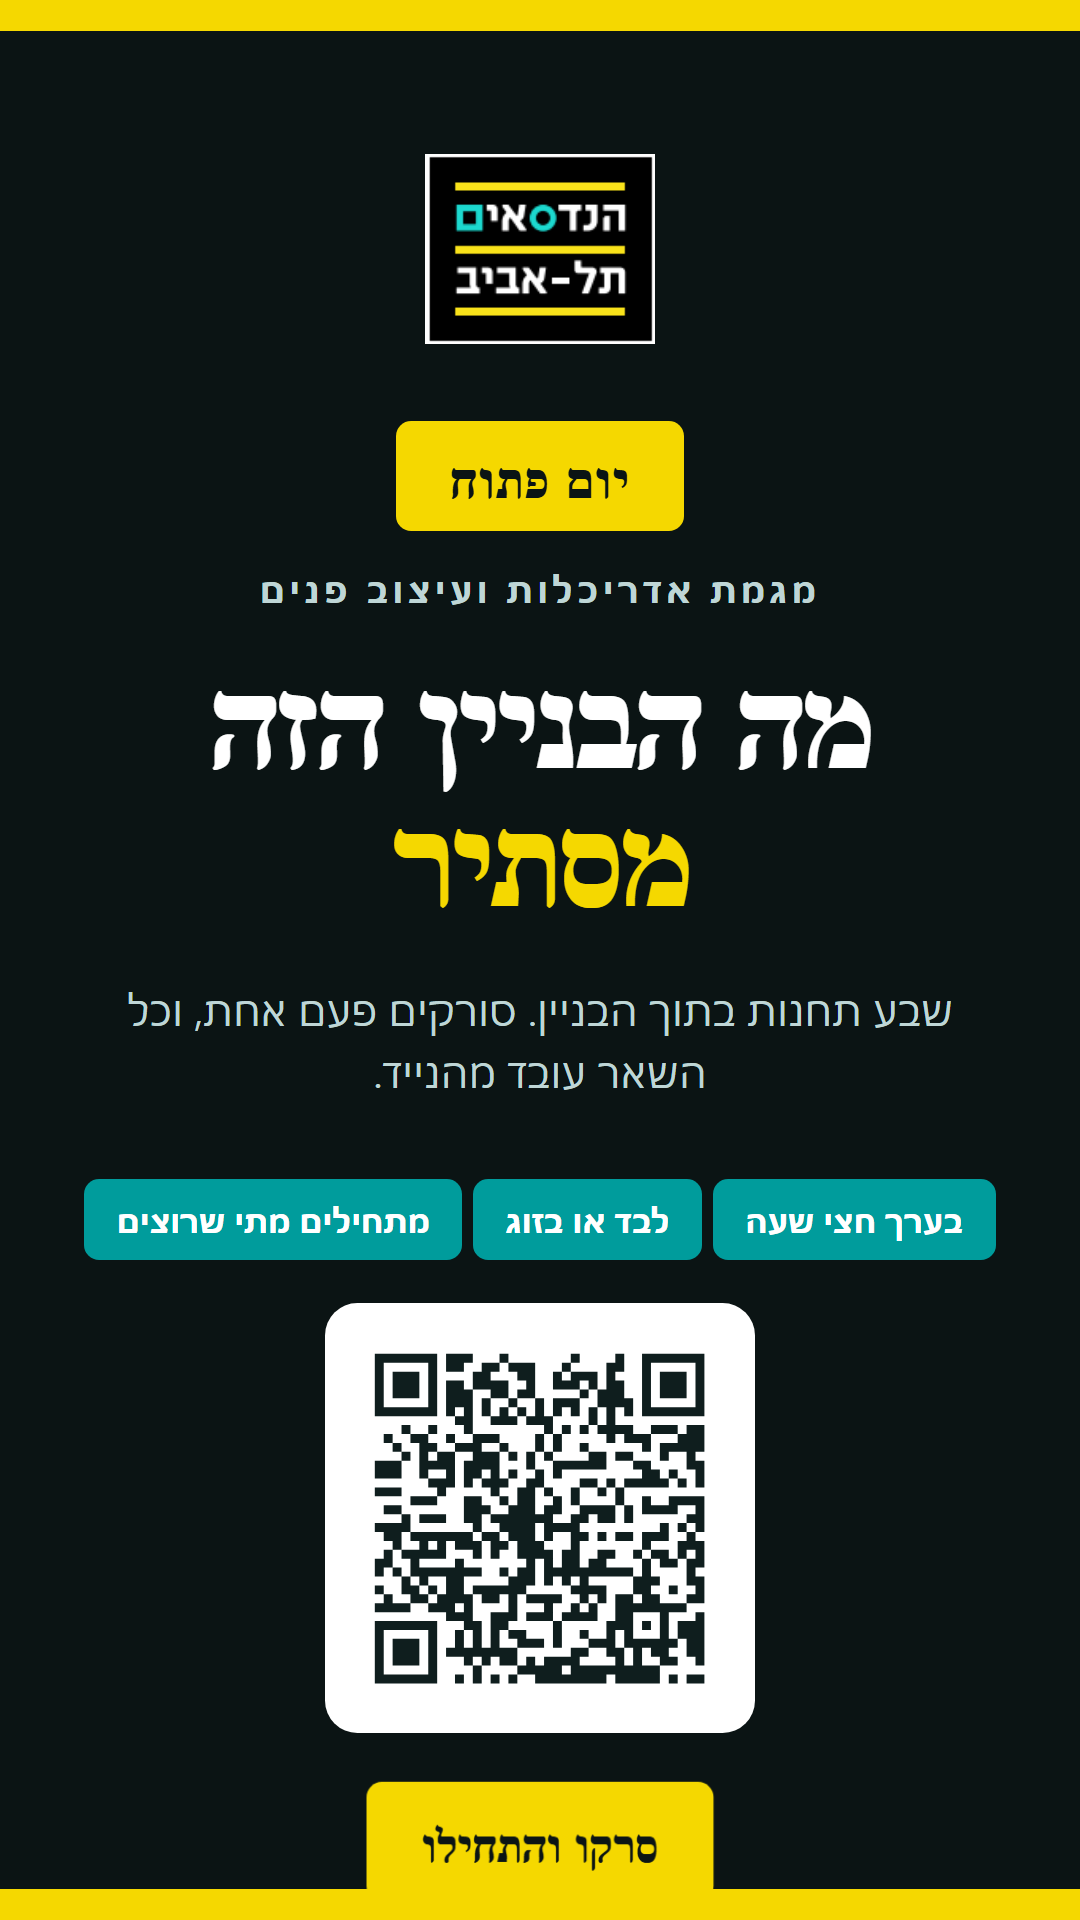
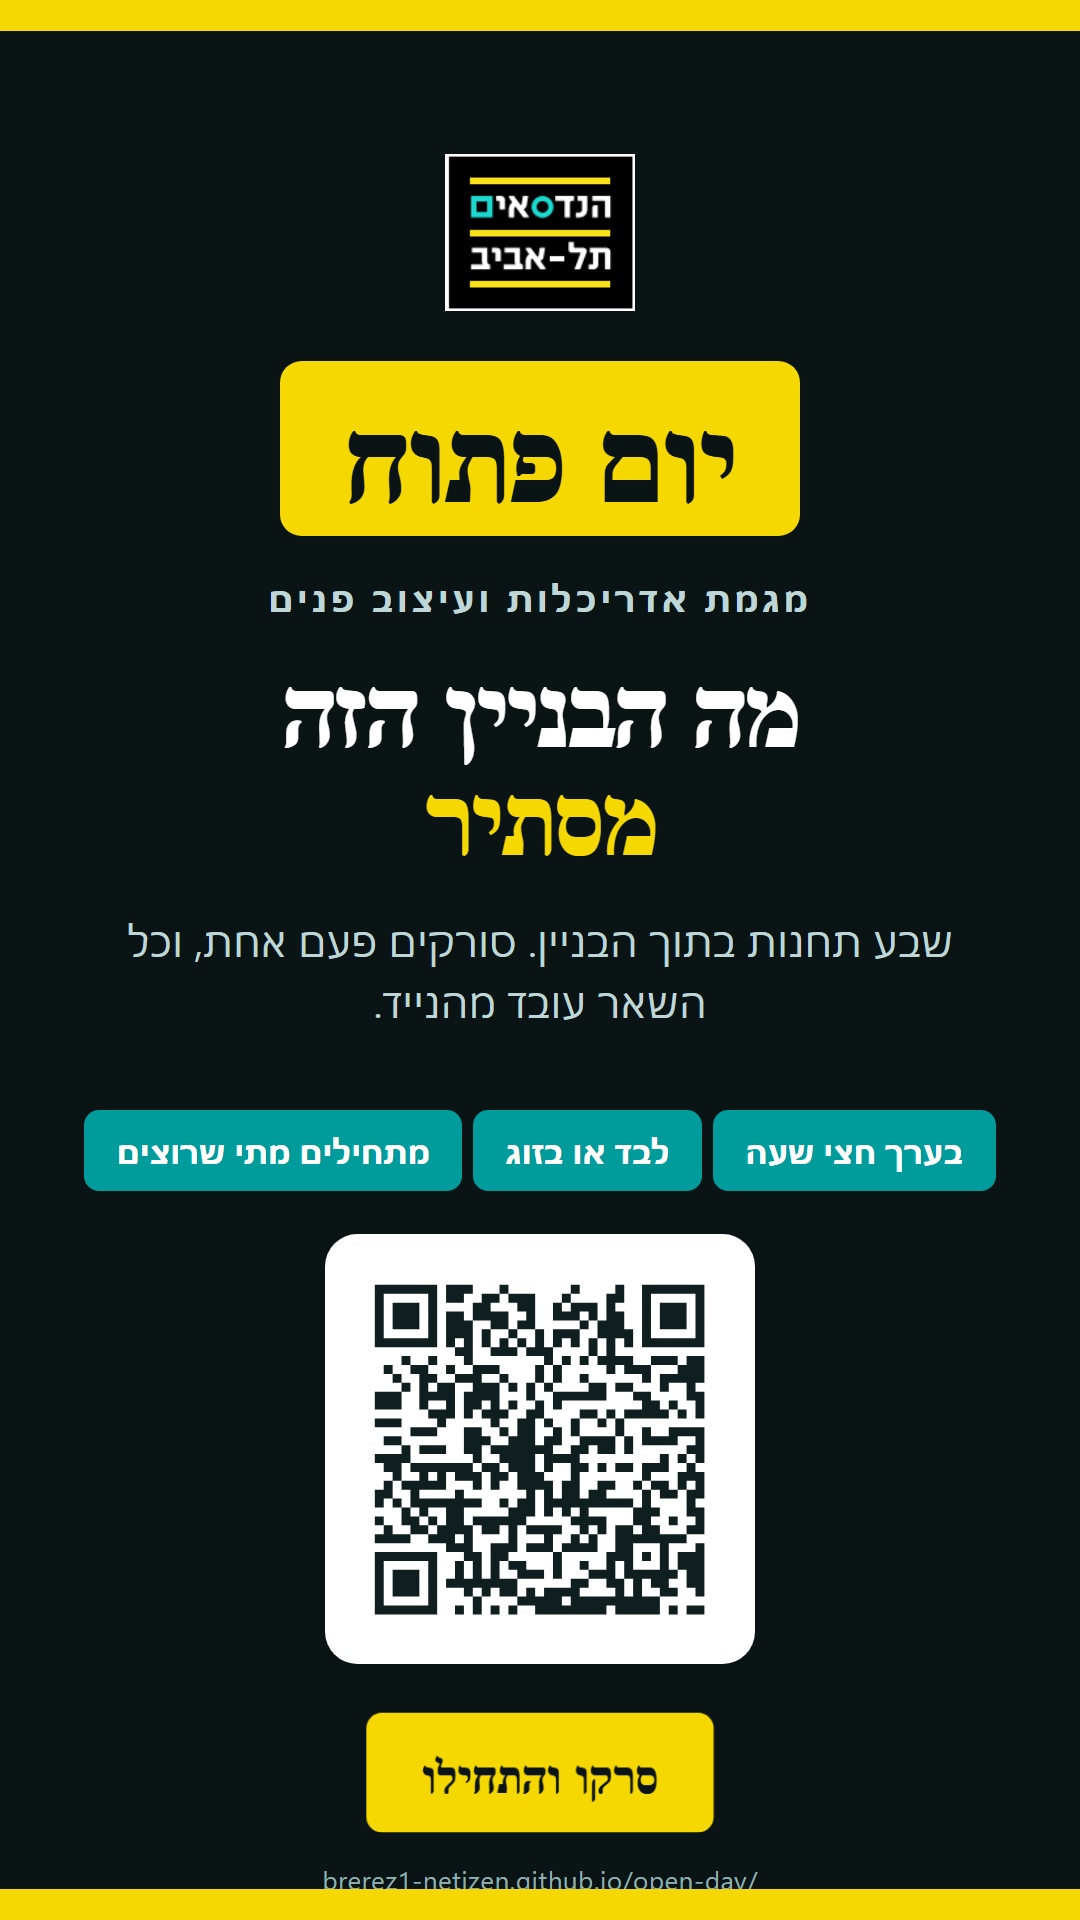
"יום פתוח" הופך לכותרת הראשית במסכי הלובי

Changed region(s): [[0.0611, 0.0625, 0.9472, 1.0]]

diff --git a/tv.html b/tv.html
@@ -20,14 +20,14 @@
   .screen::after { bottom:0; }
 
   .left { display:flex; flex-direction:column; }
-  .logo { width:15vw; max-width:230px; margin-bottom:4vh; }
+  .logo { width:12vw; max-width:190px; margin-bottom:2.6vh; }
   .badge { display:inline-block; align-self:flex-start; background:var(--yellow); color:var(--ink);
-    font-weight:800; font-size:2.4vw; letter-spacing:0.02em; padding:0.8vh 1.8vw;
-    border-radius:0.6vw; margin-bottom:1.8vh; }
-  .kick { color:#BFD6D6; font-weight:700; letter-spacing:0.14em; font-size:1.6vw; }
-  h1 { font-size:7.4vw; line-height:0.98; font-weight:800; letter-spacing:-0.035em; margin:1.6vh 0 0; }
+    font-weight:800; font-size:6.4vw; line-height:1; letter-spacing:-0.02em;
+    padding:1.4vh 2.6vw; border-radius:0.8vw; margin-bottom:2vh; }
+  .kick { color:#BFD6D6; font-weight:700; letter-spacing:0.12em; font-size:1.9vw; }
+  h1 { font-size:5.6vw; line-height:1.0; font-weight:800; letter-spacing:-0.03em; margin:1.4vh 0 0; }
   h1 em { font-style:normal; color:var(--yellow); }
-  .lede { font-size:2.05vw; line-height:1.5; margin-top:3.2vh; color:#BFD6D6; max-width:34vw; }
+  .lede { font-size:1.85vw; line-height:1.5; margin-top:2.4vh; color:#BFD6D6; max-width:34vw; }
   .meta { display:flex; gap:1vw; margin-top:4vh; flex-wrap:wrap; }
   .chip { background:var(--teal); font-weight:700; font-size:1.5vw;
     padding:0.9vh 1.5vw; border-radius:0.6vw; }
@@ -47,10 +47,10 @@
   @media (max-aspect-ratio: 1/1) {
     .screen { grid-template-columns:1fr; grid-template-rows:1fr auto; text-align:center; padding:8vh 7vw; }
     .left { align-items:center; }
-    .logo { width:30vw; }
-    .badge { align-self:center; font-size:5vw; padding:1vh 5vw; border-radius:1.4vw; }
+    .logo { width:24vw; }
+    .badge { align-self:center; font-size:12vw; padding:1.2vh 6vw; border-radius:2vw; }
     .kick { font-size:3.2vw; }
-    h1 { font-size:13vw; }
+    h1 { font-size:10vw; }
     .lede { font-size:3.8vw; max-width:80vw; }
     .chip { font-size:3vw; padding:1vh 3vw; border-radius:1.4vw; }
     .qr { width:54vw; padding:3vw; border-radius:3vw; }
